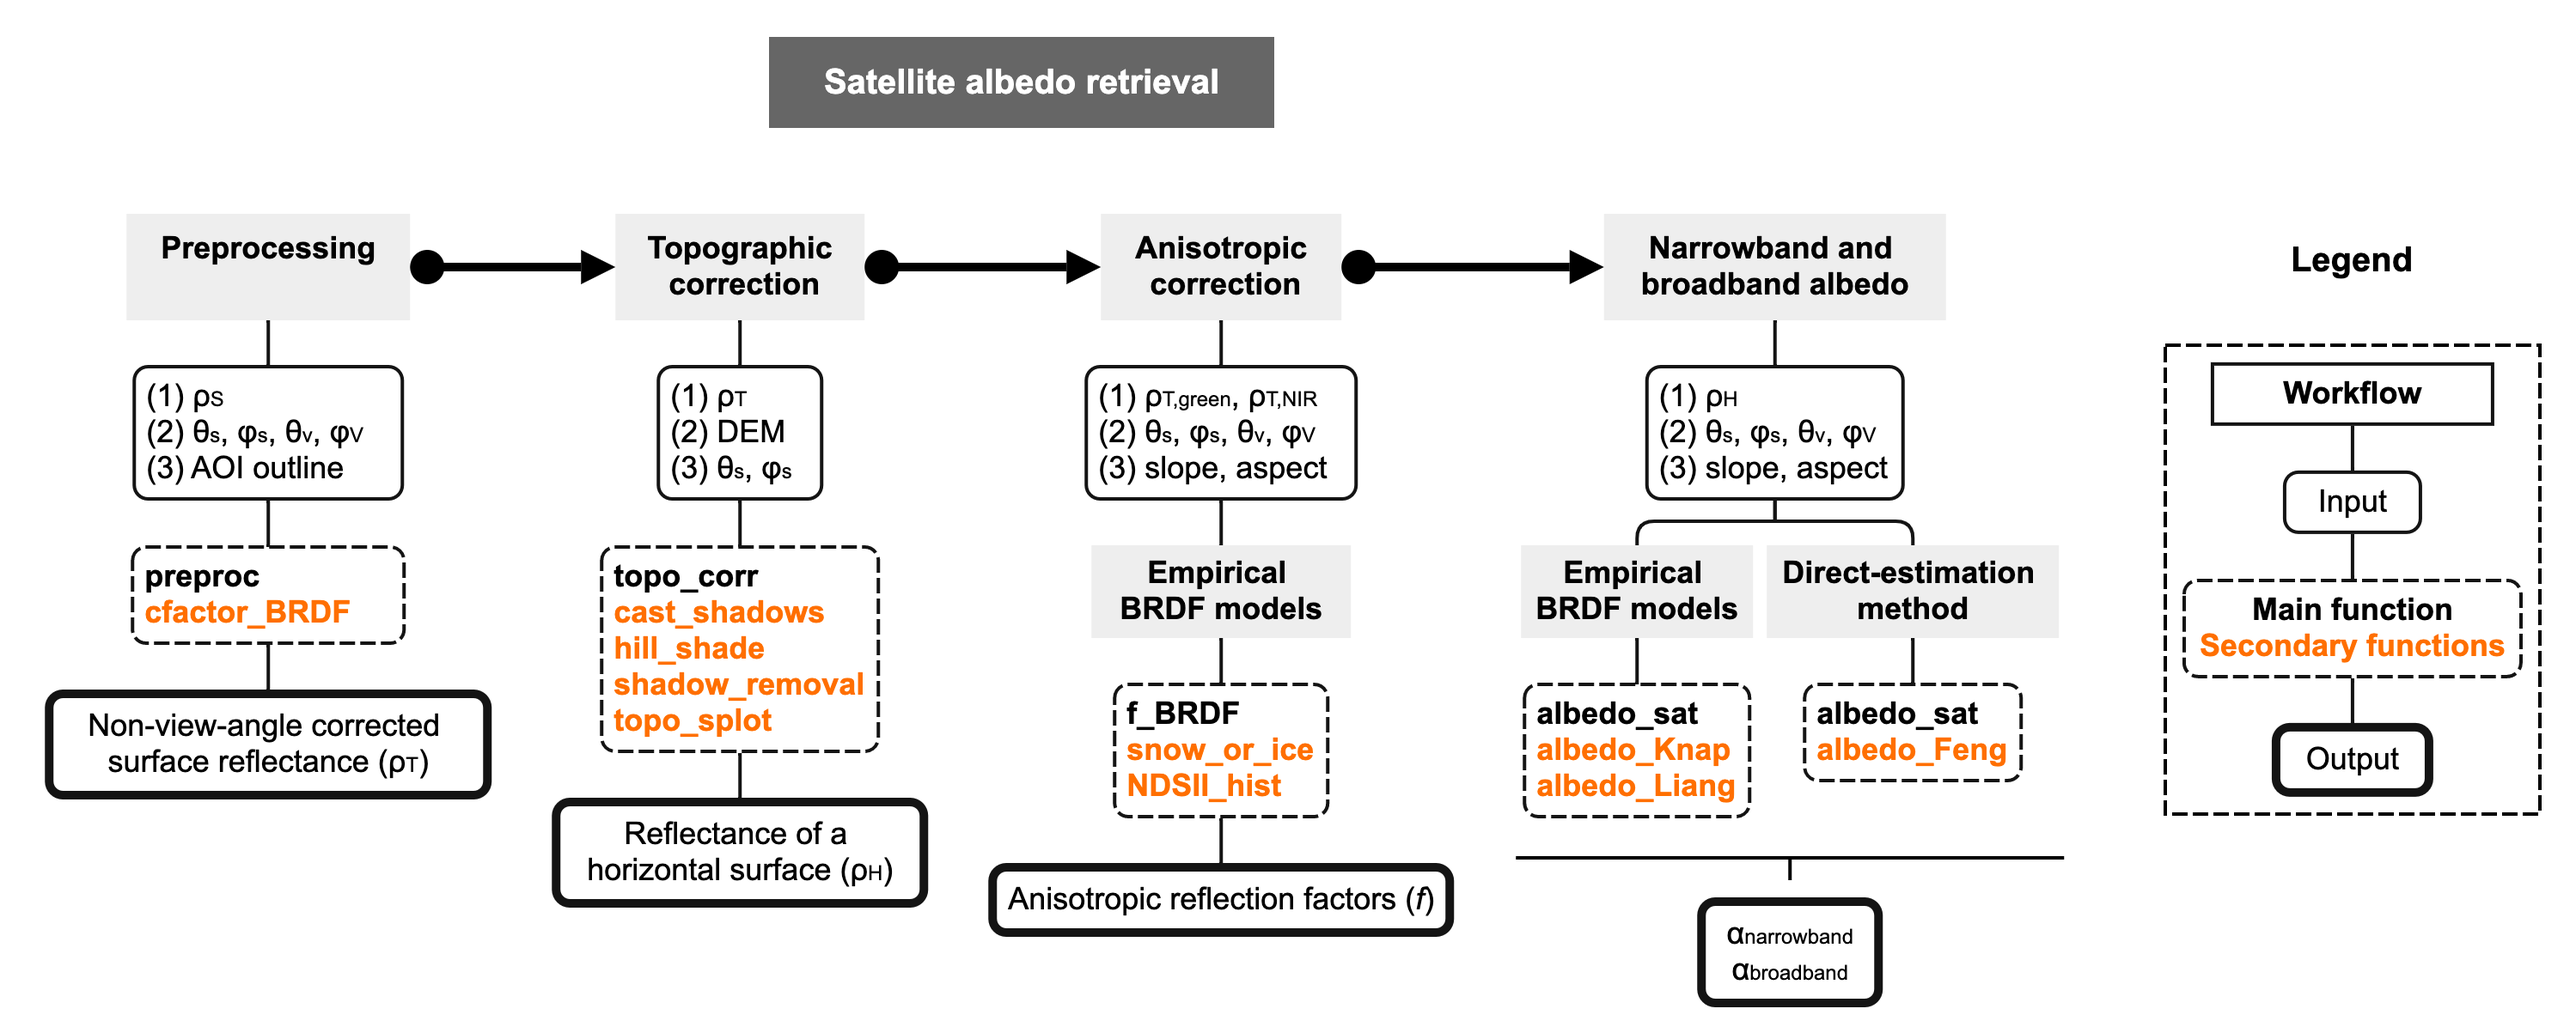
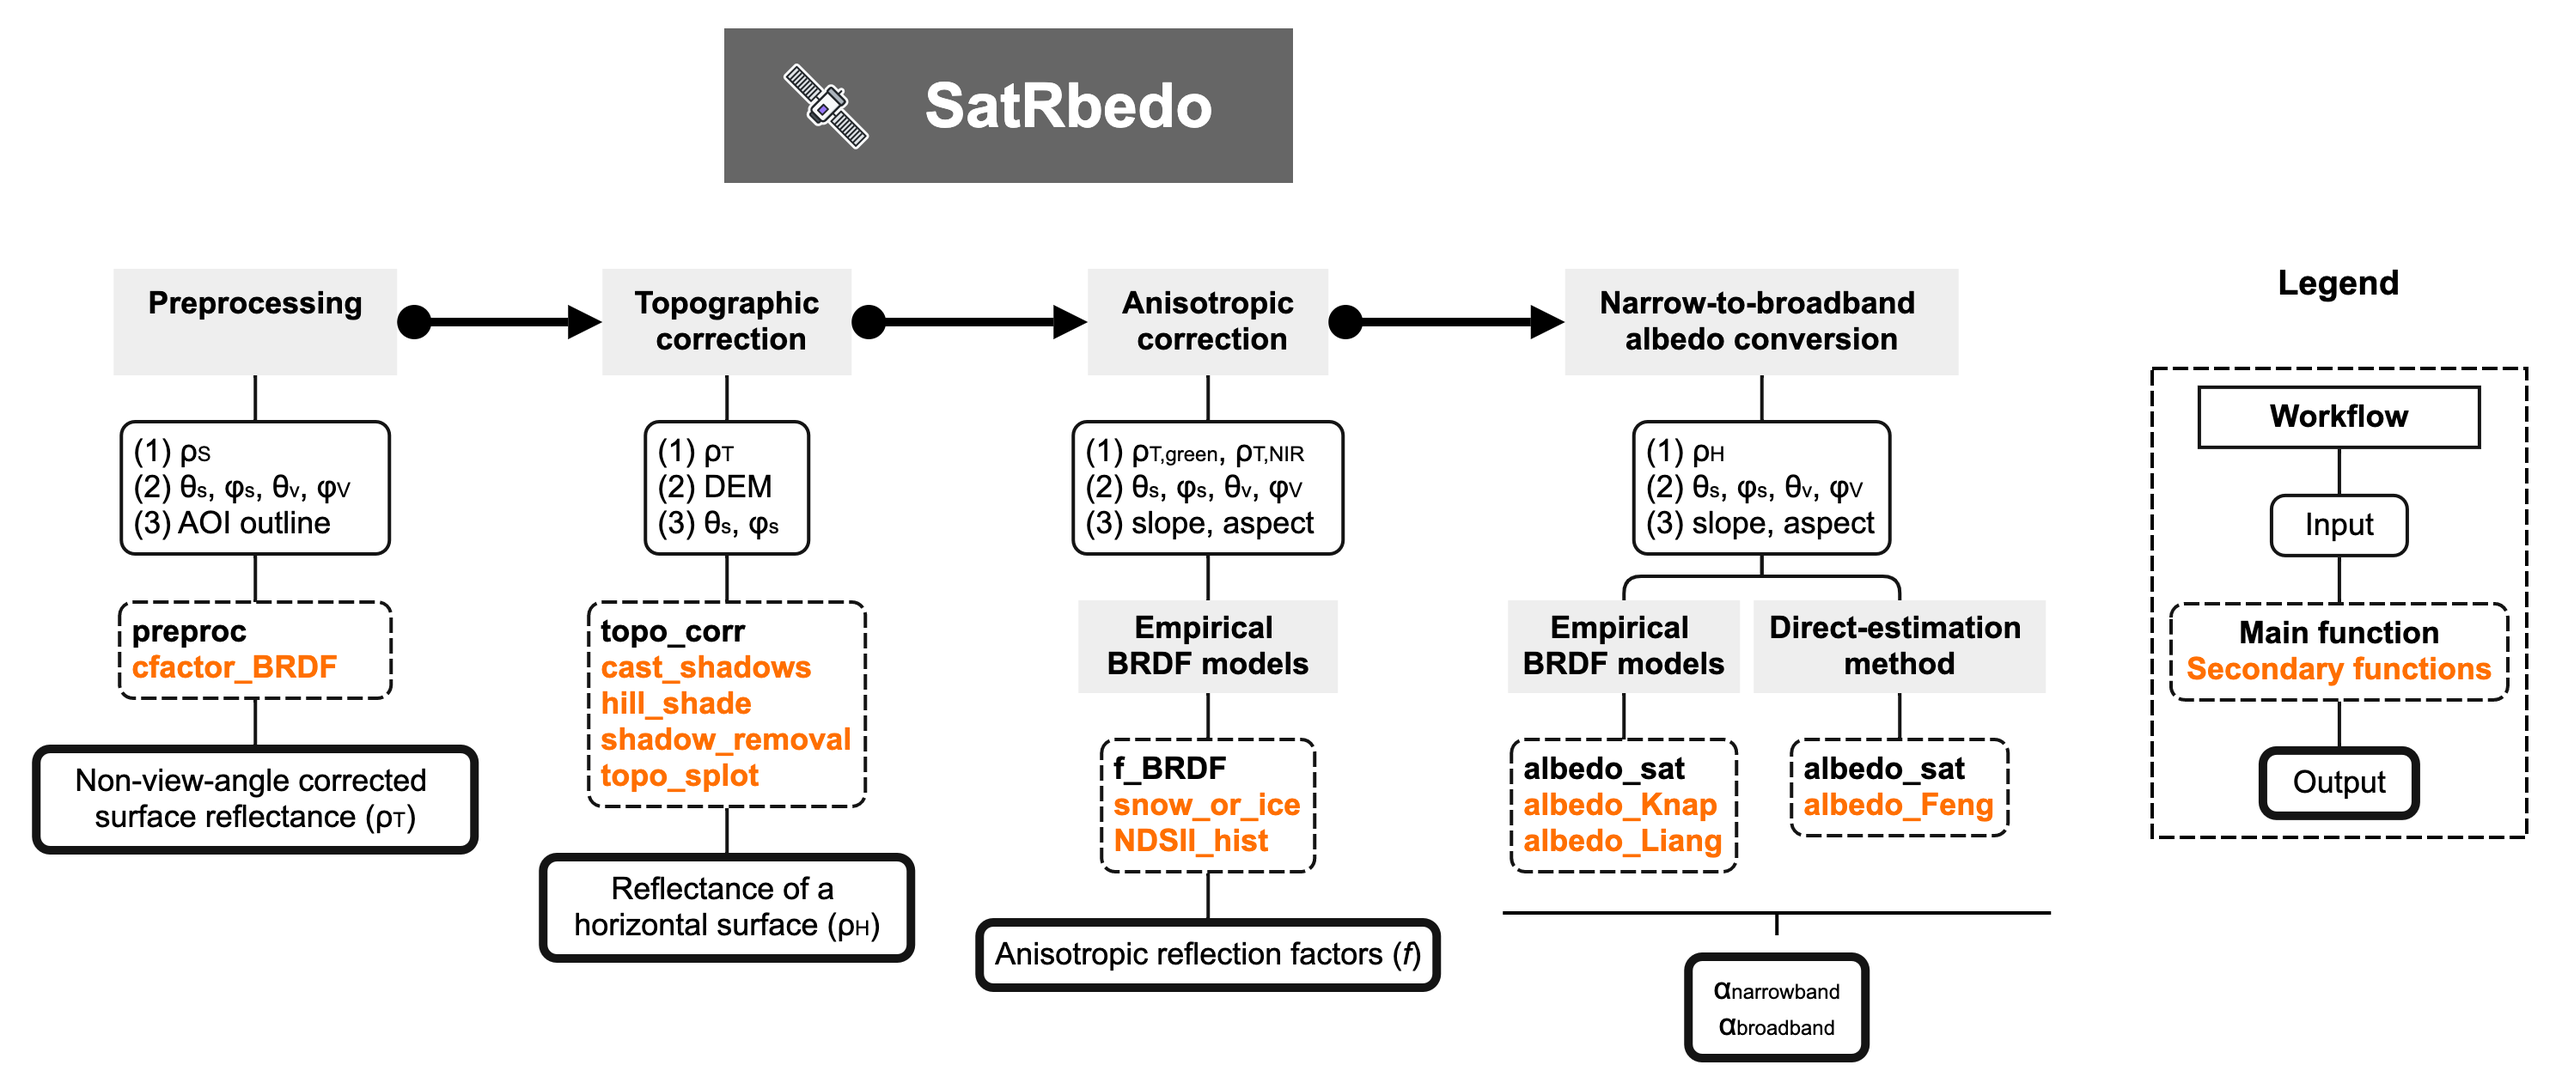
Revised manuscript

diff --git a/inst/paper/paper.md b/inst/paper/paper.md
@@ -43,12 +43,9 @@ snow and ice surfaces. As such, it influences meltwater production, glacier mass
 balance, and the energy exchange between the Earth and the atmosphere [@jonsell_spatial_2003;@hock_glacier_2005]. Satellite remote sensing has been widely recognized as the best practical
 approach for monitoring and mapping surface albedo across different spatial and temporal scales [@lin_estimating_2022;@urraca_assessing_2023]. Here, we present the `SatRbedo` R package:
 an extensible, standalone toolbox for retrieving snow and ice albedo from optical satellite imagery.
-The package includes tools for image preprocessing, converting nadir satellite observations to off-nadir values using view-angle corrections, detecting topographic shadows, discriminating snow and ice surfaces, correcting for topographic effects and the anisotropic behavior of reflected radiation of glacier snow
-and ice, and converting narrowband to broadband albedo. The toolbox has a modular structure that
-allows for changing the implemented routines and provides output that can be used independently
-or as input to other functions. `SatRbedo` is designed to work with medium-resolution
-satellite data (e.g., Landsat and Sentinel-2), although data from different satellite sensors
-can also be used.
+The package includes functions for image preprocessing, converting nadir satellite observations to off-nadir values using view-angle corrections, detecting topographic shadows, discriminating snow and ice surfaces, correcting for topographic effects and the anisotropic behavior of reflected radiation of glacier snow and ice, and converting narrowband to broadband albedo. The package has a modular structure that allows for changing the implemented routines and provides output that can be used independently
+or as input to other functions. `SatRbedo` is designed to work with medium-resolution satellite data
+(e.g., Landsat and Sentinel-2), although data from different satellite sensors can also be used.
 
 # Statement of need
 
@@ -68,25 +65,24 @@ Instrumentation deployed on towers and automatic weather stations can provide hi
 Coupled snow radiative transfer and snowpack models can simulate the temporal and spatial evolution of snow optical properties. However, these coupled models are associated with high computational costs and limited spatial resolution [@gaillard_improving_2025]. Also, these models require input data that is often spatially variable and unavailable most of the time.
 
 Remote sensing offers the best option for studying the changes in albedo, accounting for the high variability in space and time [@berg_finescale_2020]. Satellite albedo retrievals typically comprise three steps: atmospheric correction, modeling of the angular reflectance, and narrow-to-broadband albedo conversion [@carlsen_parameterizing_2020;@qu_mapping_2015]. The algorithms for atmospheric correction [@doxani_atmospheric_2023;@vermote_preliminary_2016], modeling of the angular reflectance distribution [@lucht_algorithm_2000;@ren_anisotropy_2021], and narrow-to-broadband albedo conversion
-[@knap_narrowband_1999;@li_preliminary_2018;@liang_narrowband_2001] are well-established and validated in a number of case studies. In addition to these steps, satellite image pre-processing and topographic correction are necessary for homogenizing the input data and minimizing the effects of slope and aspect on albedo, respectively.
+[@knap_narrowband_1999;@li_preliminary_2018;@liang_narrowband_2001] are well-established and validated in a number of case studies. In addition to these steps, satellite image preprocessing and topographic correction are necessary for homogenizing the input data and minimizing the effects of slope and aspect on albedo, respectively.
 
-Several workflows have been proposed to address these processing steps [e.g.,@klok_temporal_2003;@shuai_algorithm_2011]. However, research code supporting their implementation is not always readily available. This paper introduces the `SatRbedo` package, which implements a workflow in R to estimate snow and ice albedo from satellite data.
+Several workflows have been proposed to address these processing steps [e.g.,@klok_temporal_2003;@shuai_algorithm_2011]. However, research code supporting their implementation is not always readily available. This paper introduces the `SatRbedo` package, which implements workflows in R to estimate snow and ice albedo from satellite data.
 
 # Implementation
 
-`SatRbedo` consists of tools that run in a processing pipeline (\autoref{fig:workflow}).
+`SatRbedo` consists of four workflows that run in a processing pipeline (\autoref{fig:workflow}).
 
-![Flowchart of the satellite albedo retrieval workflow. It includes four processing steps: pre-processing, topographic correction, anisotropic correction, and narrow-to-broadband albedo conversion. The details of the methods are described in the text.\label{fig:workflow}](workflow.png){ width=80% }
+![Flowchart of the SatRbedo package. It includes four workflows: preprocessing, topographic correction, anisotropic correction, and narrow-to-broadband albedo conversion. The details of the workflows are described in the text.\label{fig:workflow}](workflow.png){ width=80% }
 
-First, it takes application-ready surface reflectance data ($\rho_s$) derived from top-of-atmosphere reflectance, satellite ($\varphi_v$, $\theta_v$) and solar ($\varphi_s$, $\theta_s$) azimuth and zenith angles, and an outline of the area of interest (AOI) to perform the following pre-processing steps: crop the satellite grids to a specified extent; convert data from integer to floating point; re-project grids to a common coordinate system; and convert nadir satellite observations to off-nadir values using view-angle corrections based on the c-factor method [@roy_general_2016].
+Firstly, the Preprocessing Workflow requires application-ready surface reflectance data for all available spectral bands ($\rho_s$), satellite ($\varphi_v$, $\theta_v$) and solar ($\varphi_s$, $\theta_s$) azimuth and zenith angles, and an outline of the area of interest (AOI) to carry out the following preprocessing steps: crop the satellite grids to a specified extent; convert data from integer to floating point; re-project grids to a common coordinate system; and convert nadir satellite observations to off-nadir values using view-angle corrections based on the c-factor method [@roy_general_2016].
 
-Subsequently, the non-view-angle corrected surface reflectance ($\rho_T$) is corrected for the effects of topography to obtain the equivalent reflectance values over flat terrain ($\rho_H$). Two empirical methods are provided in `SatRbedo`: the rotation model proposed by @tan_improved_2013 and the C-correction model [@teillet_slope-aspect_1982]. These algorithms are suitable for mountain environments with rugged topography and non-Lambertian surface properties and require a digital elevation model (DEM) and the solar azimuth and zenith angles as input data. The two models assume a linear relationship between reflectance and the solar incidence angle on an inclined surface. Additionally, a tool is provided to remove topographic shadows (self and cast shadows) using the vectorial algebra algorithms proposed by @corripio_vectorial_2003.
+Subsequently, in the Topographic Correction Workflow, surface reflectance that is not adjusted for view angle ($\rho_T$) is corrected for topographic effects to generate equivalent reflectance values over flat terrain ($\rho_H$). `SatRbedo` provides two empirical methods: the rotation model by @tan_improved_2013 and the C-correction model [@teillet_slope-aspect_1982]. These algorithms are appropriate for mountainous environments with rugged topography and non-Lambertian surface properties, requiring a digital elevation model (DEM) and solar azimuth and zenith angles as inputs. Both models assume a linear relationship between reflectance and the solar incidence angle on an inclined surface. Additional functions are available to remove topographic shadows (both self- and cast) using the vectorial algebra algorithms introduced by @corripio_vectorial_2003.
 
-The next step accounts for the anisotropic reflection of snow and ice. For a given surface type, the correction is carried out using an empirical model of the Bidirectional Reflectance Distribution Function (BRDF) that depends on the wavelength bands and the view-solar geometry. `SatRbedo` provides two different models: the BRDF models of @koks_anisotropic_2001 for snow and @greuell_anisotropic_1999 for ice when the green and near-infrared (NIR) bands are used, and the parameterizations proposed by @ren_anisotropy_2021 for the combination of the blue, red, NIR, and shortwave-infrared bands. To distinguish between snow and ice surfaces, we need to calculate the Normalized Difference Snow Ice Index
-[NDSII,@keshri_aster_2009]. The subsequent discrimination between snow and ice is performed using an automatic threshold selection method based on the Otsu algorithm [@otsu_threshold_1979].
+The Anisotropic Correction Workflow corrects for the anisotropic reflection properties of snow and ice. For each surface type, the anisotropic reflection factors ($f$) are calculated using empirical Bidirectional Reflectance Distribution Function (BRDF) models that consider the view-solar geometry relative to the inclined surface, described by slope and aspect. `SatRbedo` includes two models: the BRDF models of @koks_anisotropic_2001 for snow and @greuell_anisotropic_1999 for ice, both used with green and near-infrared (NIR) bands, and parameterizations from @ren_anisotropy_2021 for combinations of blue, red, NIR, and shortwave-infrared bands. To distinguish snow from ice, the Normalized Difference Snow/Ice Index
+[NDSII,@keshri_aster_2009] is computed from green ($\rho_{T, green}$) and NIR ($\rho_{T, NIR}$) surface reflectance, and surface discrimination is performed using an automatic threshold selection based on the Otsu algorithm [@otsu_threshold_1979].
 
-Finally, broadband albedo can be calculated from narrowband albedo using three empirical relationships:
-@knap_narrowband_1999, @liang_narrowband_2001, and @feng_remote_2023.
+The Narrow-to-broadband albedo conversion Workflow employs empirical BRDF models to compute narrowband albedo ($\alpha_{narrowband}$) for each spectral band after topographic correction ($\rho_H$). It then derives broadband albedo ($\alpha_{broadband}$) from these narrowband values using the empirical relationships proposed by @knap_narrowband_1999 and @liang_narrowband_2001. Furthermore, a function is included that implements a direct approach that does not require an anisotropy correction and transforms surface reflectance into albedo using the algorithm from @feng_remote_2023.
 
 # Future development
 
